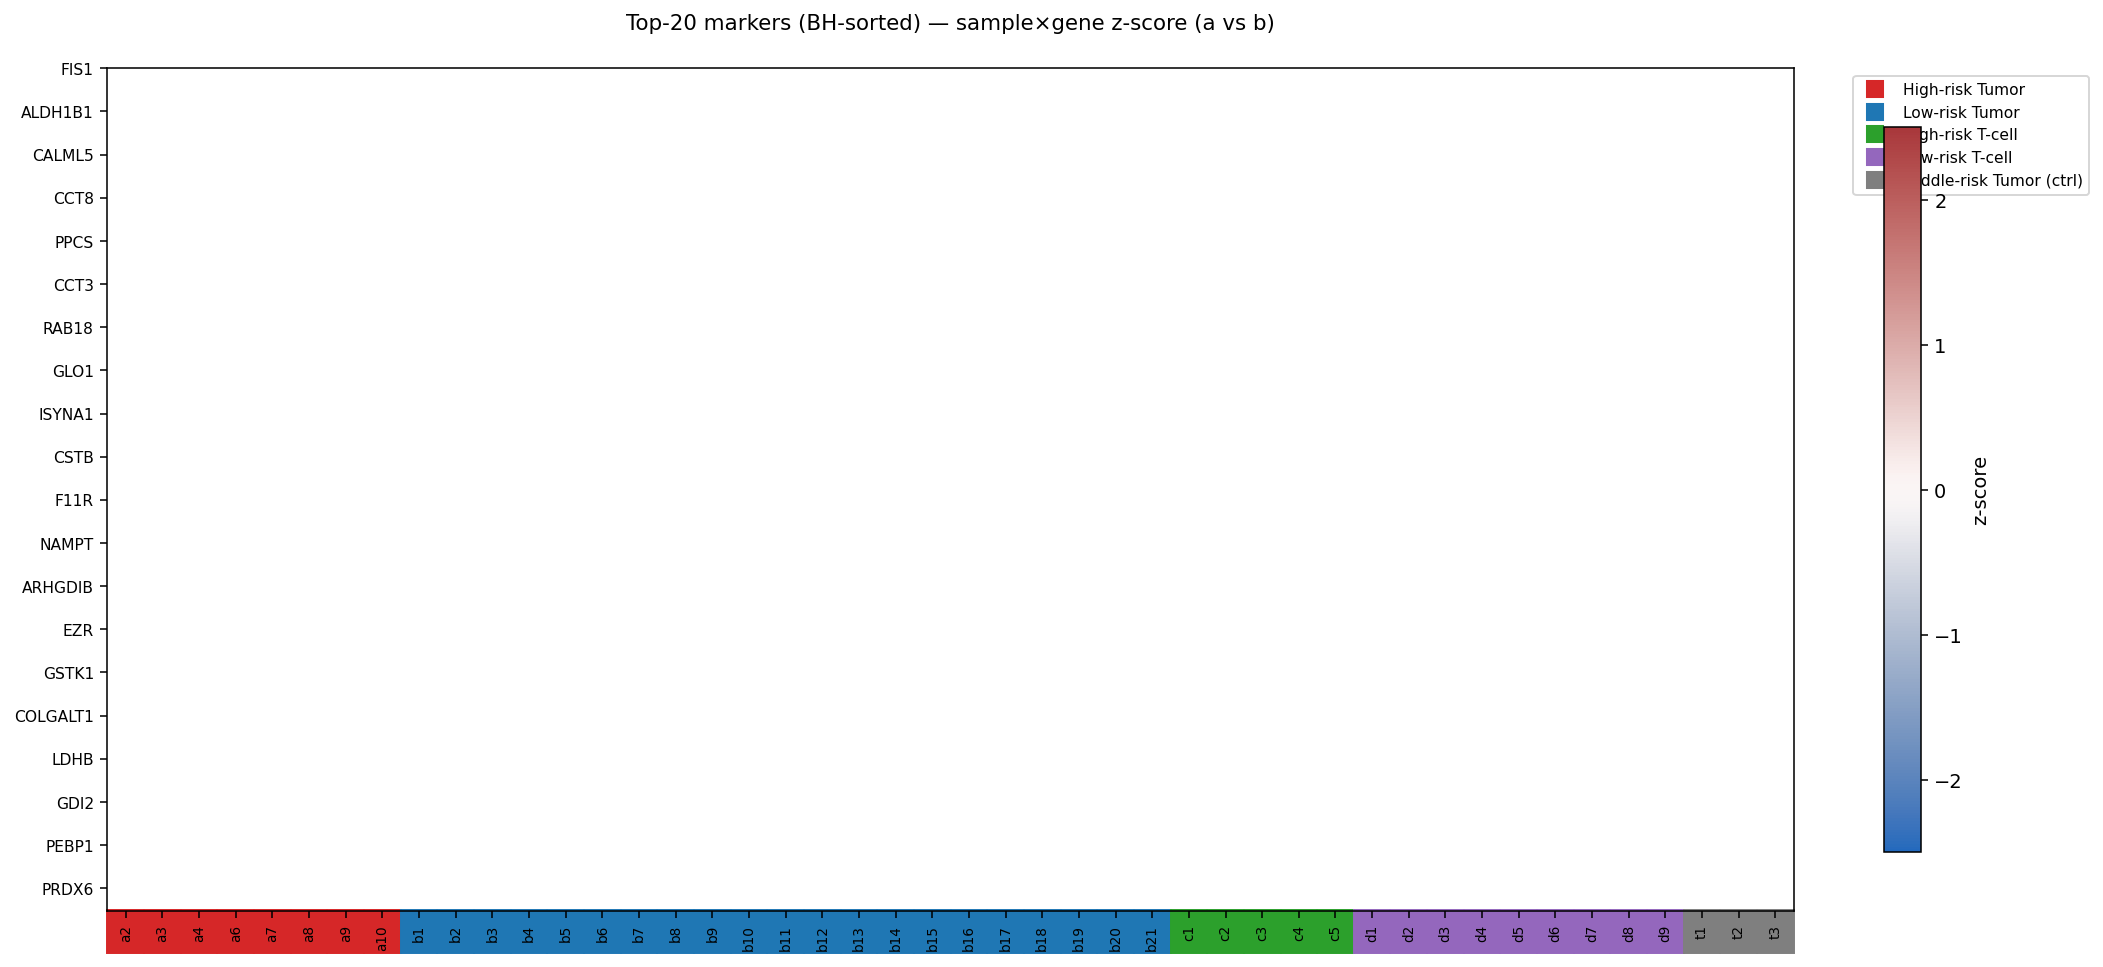
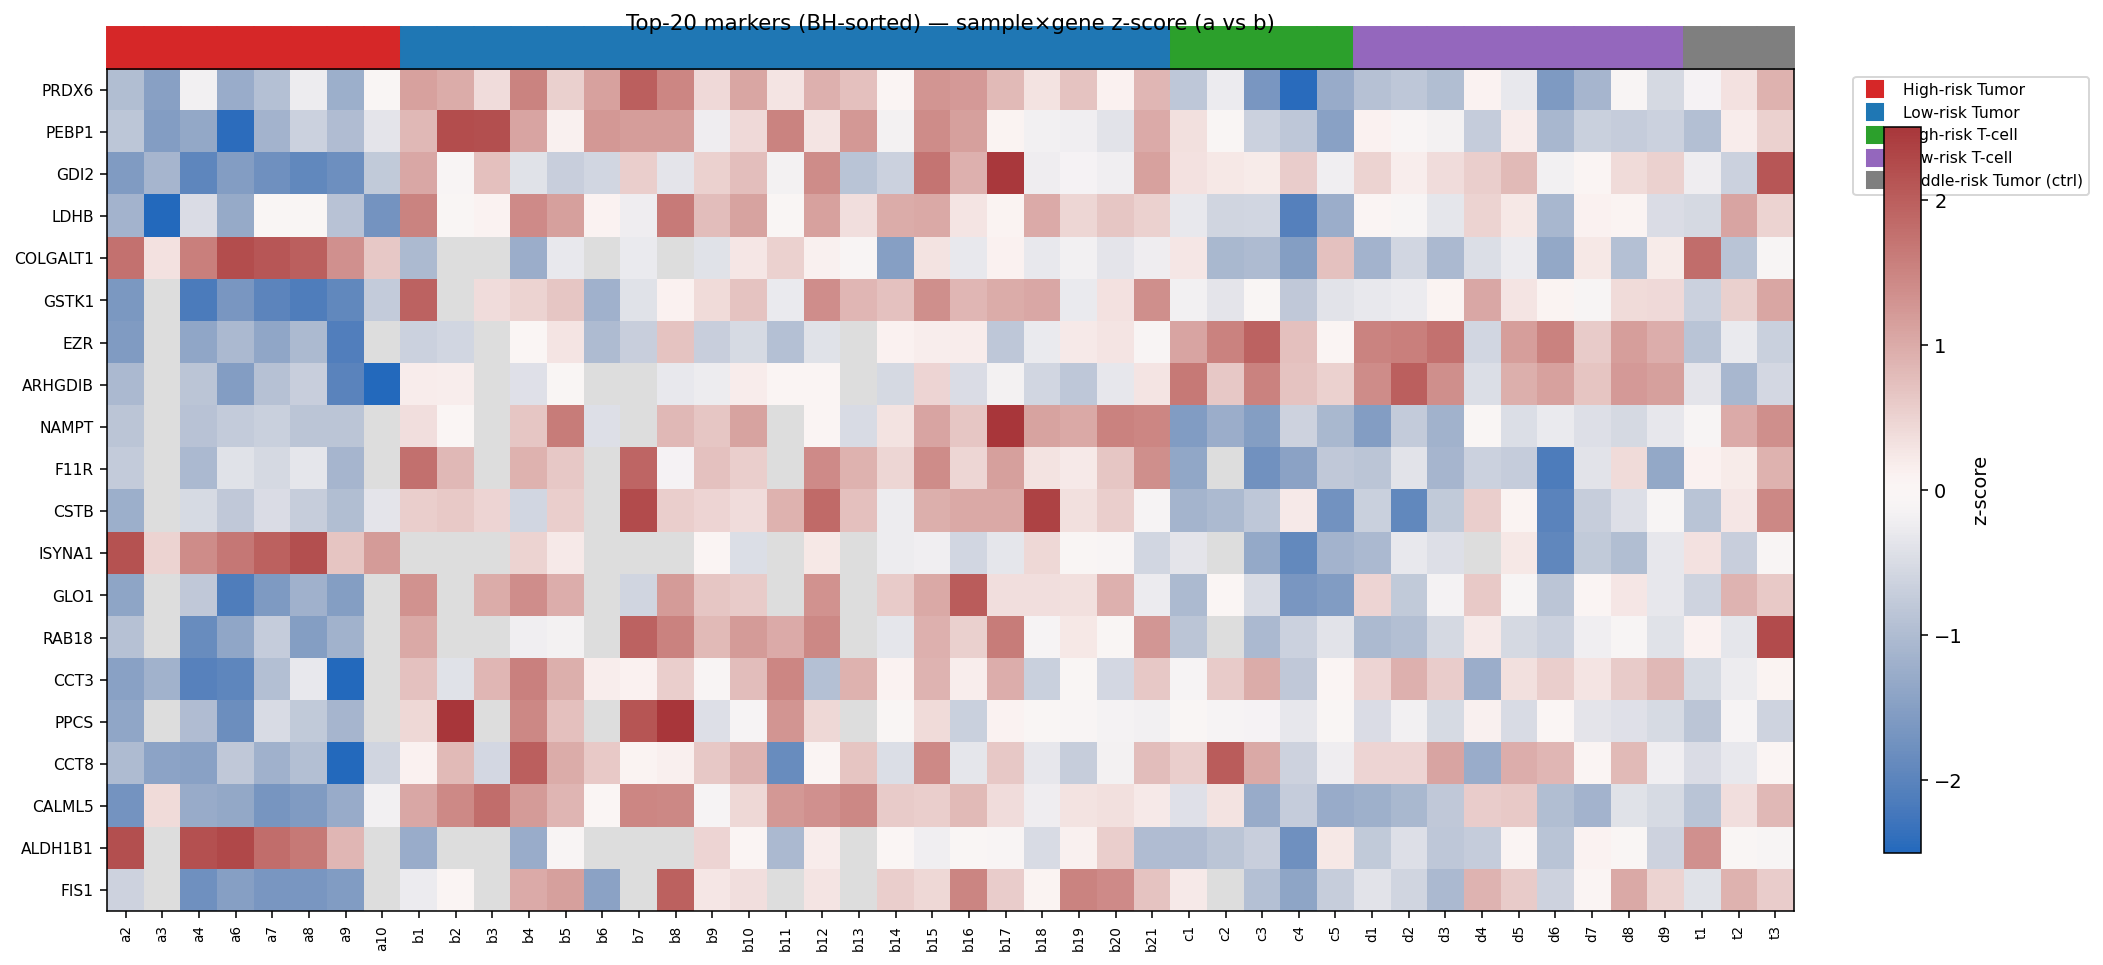
fix(proteomics): top_markers_heatmap was blank — wrong index lookup
`plot_top_markers_heatmap` used `log2_df.index[log2_df.index.isin(top.index)]`
to pick rows. After the per-gene Wilcoxon table is reset_index(drop=True),
`top.index` is integer positions 0..19, while `log2_df.index` is gene
names — so `.isin(top.index)` was always False and the matrix was
empty (axes/labels rendered, central heatmap blank).

Fix
  - Look up by gene name via `log2_df.loc[gene_names]` (also handle
    duplicated gene names by `drop_duplicates(keep="first")` on the
    index — gg_matrix can have repeats).
  - Convert Z to a masked array (`np.ma.masked_invalid`) and set
    `cmap.set_bad = "#dddddd"` so missing measurements render as
    light-grey cells instead of breaking imshow.

Notion bundle's PNG is refreshed to match.

diff --git a/inference/analysis_spatial/1_085_12/proteomics/analyze_proteomics.py b/inference/analysis_spatial/1_085_12/proteomics/analyze_proteomics.py
@@ -248,13 +248,22 @@ def plot_top_markers_heatmap(per_gene_df, log2_df, slide1_cols, out_path,
     if len(top) == 0:
         return
     rows = top["gene"].tolist()
-    matrix = log2_df.loc[log2_df.index[log2_df.index.isin(top.index)], slide1_cols]
-    # gene-wise z-score for visual normalization
-    m = matrix.values.copy()
+    # filter log2_df to top gene names; preserve BH-sorted order.
+    # log2_df.index is gene-name (a string), so use .loc[gene_name].
+    # gg_matrix can have duplicated gene names — drop_duplicates keeps the
+    # first occurrence so each row in `matrix` is unique.
+    log2_unique = log2_df[~log2_df.index.duplicated(keep="first")]
+    present = [g for g in rows if g in log2_unique.index]
+    matrix = log2_unique.loc[present, slide1_cols]
+    rows = present  # final row order
+    # gene-wise z-score for visual normalization (NaN-safe)
+    m = matrix.values.astype(float).copy()
     means = np.nanmean(m, axis=1, keepdims=True)
     stds  = np.nanstd(m, axis=1, keepdims=True)
     stds[stds == 0] = 1.0
     Z = (m - means) / stds
+    # NaN cells are kept as NaN so imshow shows them transparent / via cmap.set_bad
+    Z = np.ma.masked_invalid(Z)
     # sort columns by section then index
     col_order = sorted(slide1_cols, key=lambda c: (SECTION_ORDER.index(c[0]),
                                                     int(c[1:]) if c[1:].isdigit() else 0))
@@ -262,7 +271,9 @@ def plot_top_markers_heatmap(per_gene_df, log2_df, slide1_cols, out_path,
     Z = Z[:, col_idx]
 
     fig, ax = plt.subplots(figsize=(15, max(6, 0.35 * len(rows))))
-    im = ax.imshow(Z, aspect="auto", cmap="vlag", vmin=-2.5, vmax=2.5)
+    cmap = plt.get_cmap("vlag").copy()
+    cmap.set_bad(color="#dddddd")     # NaN cells = light grey
+    im = ax.imshow(Z, aspect="auto", cmap=cmap, vmin=-2.5, vmax=2.5)
     ax.set_xticks(np.arange(len(col_order)))
     ax.set_xticklabels(col_order, rotation=90, fontsize=7)
     ax.set_yticks(np.arange(len(rows)))
